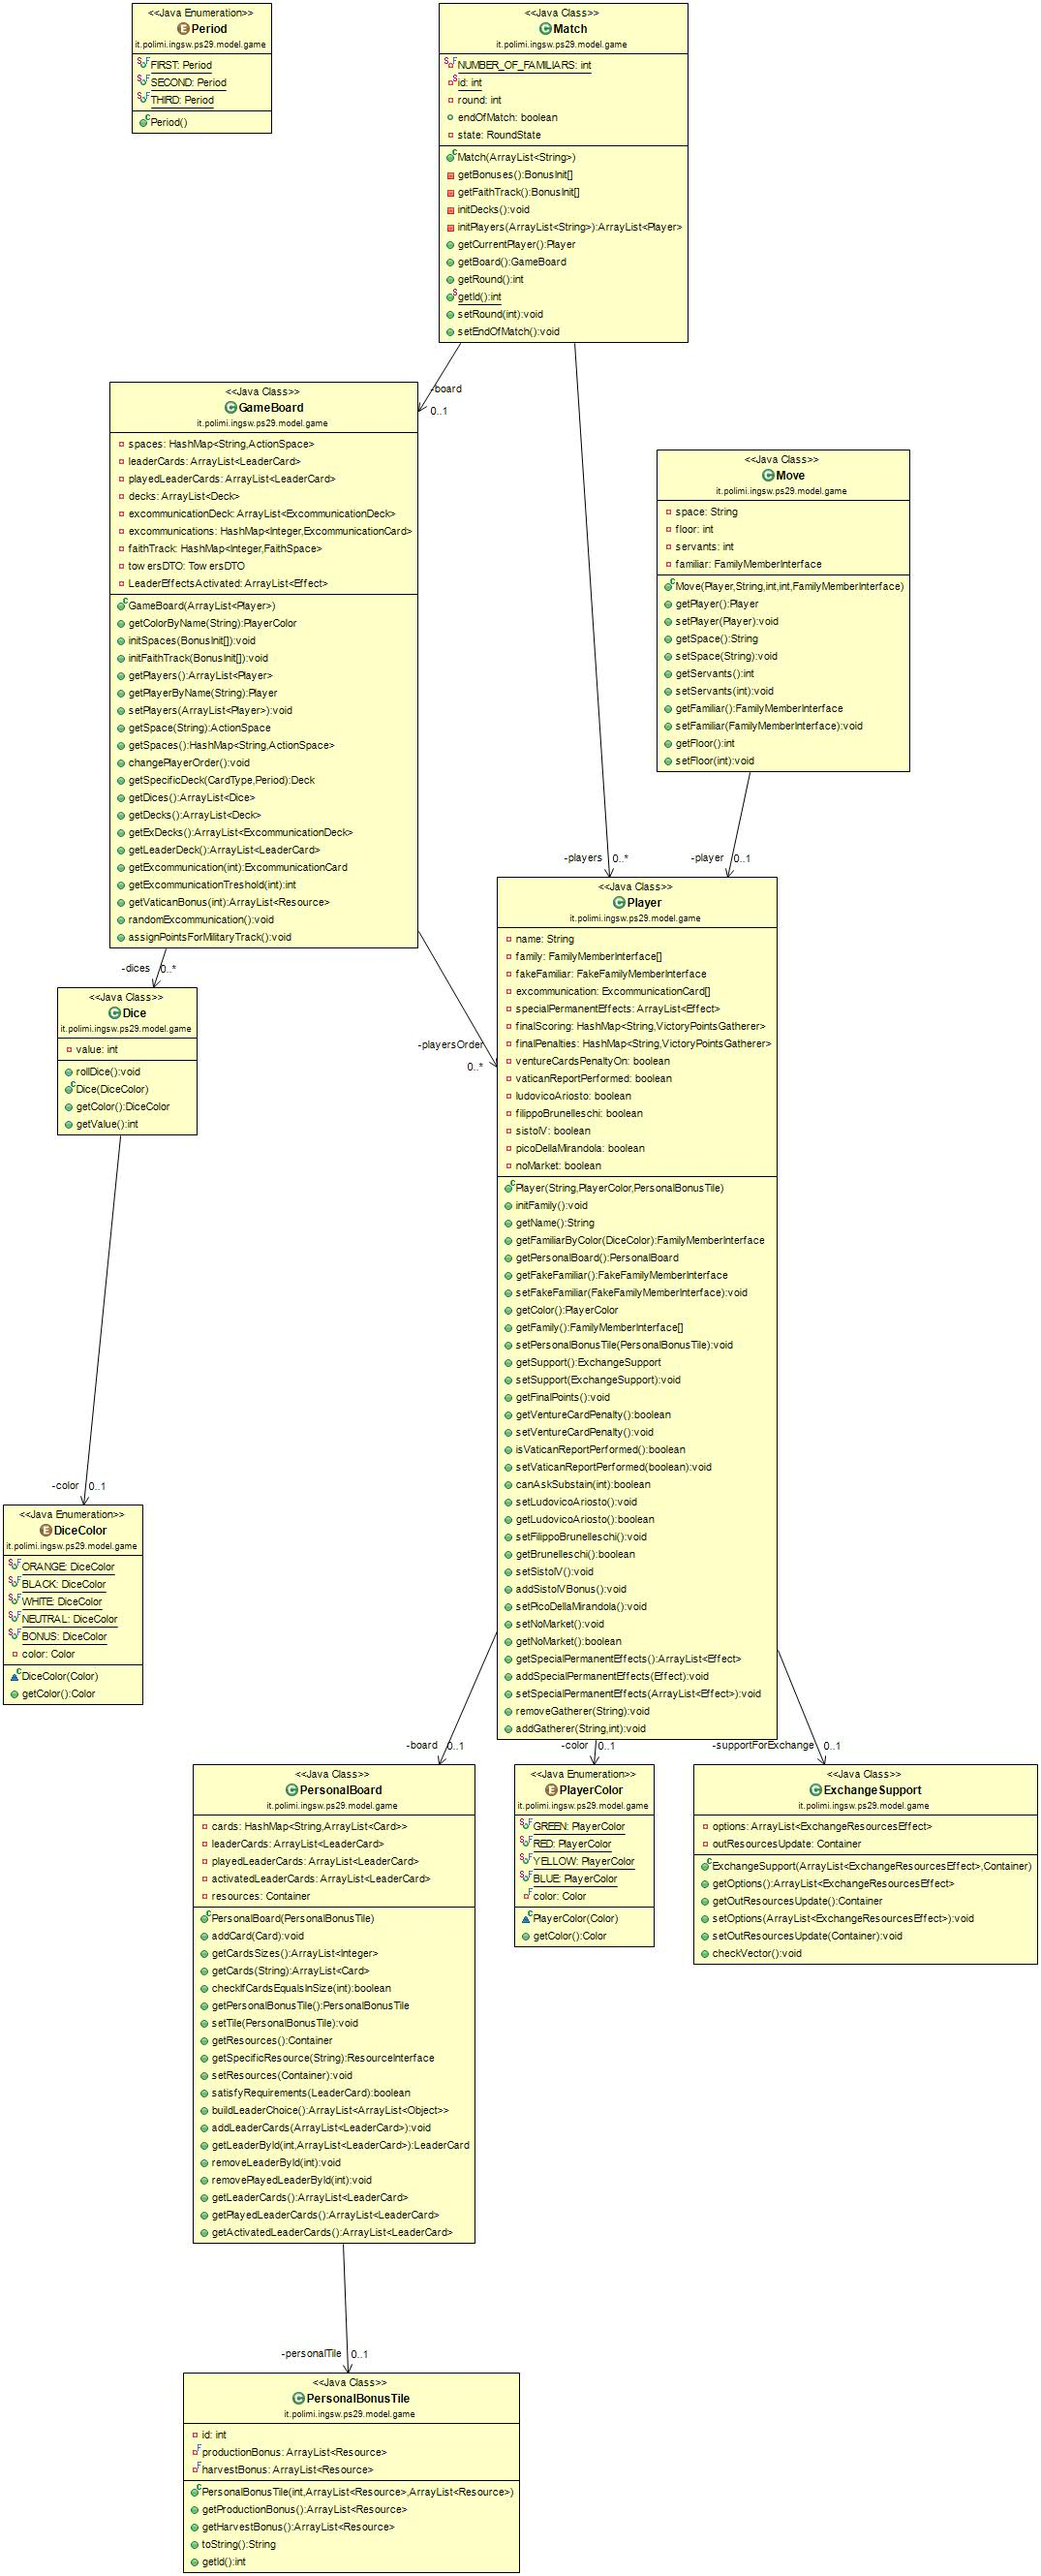
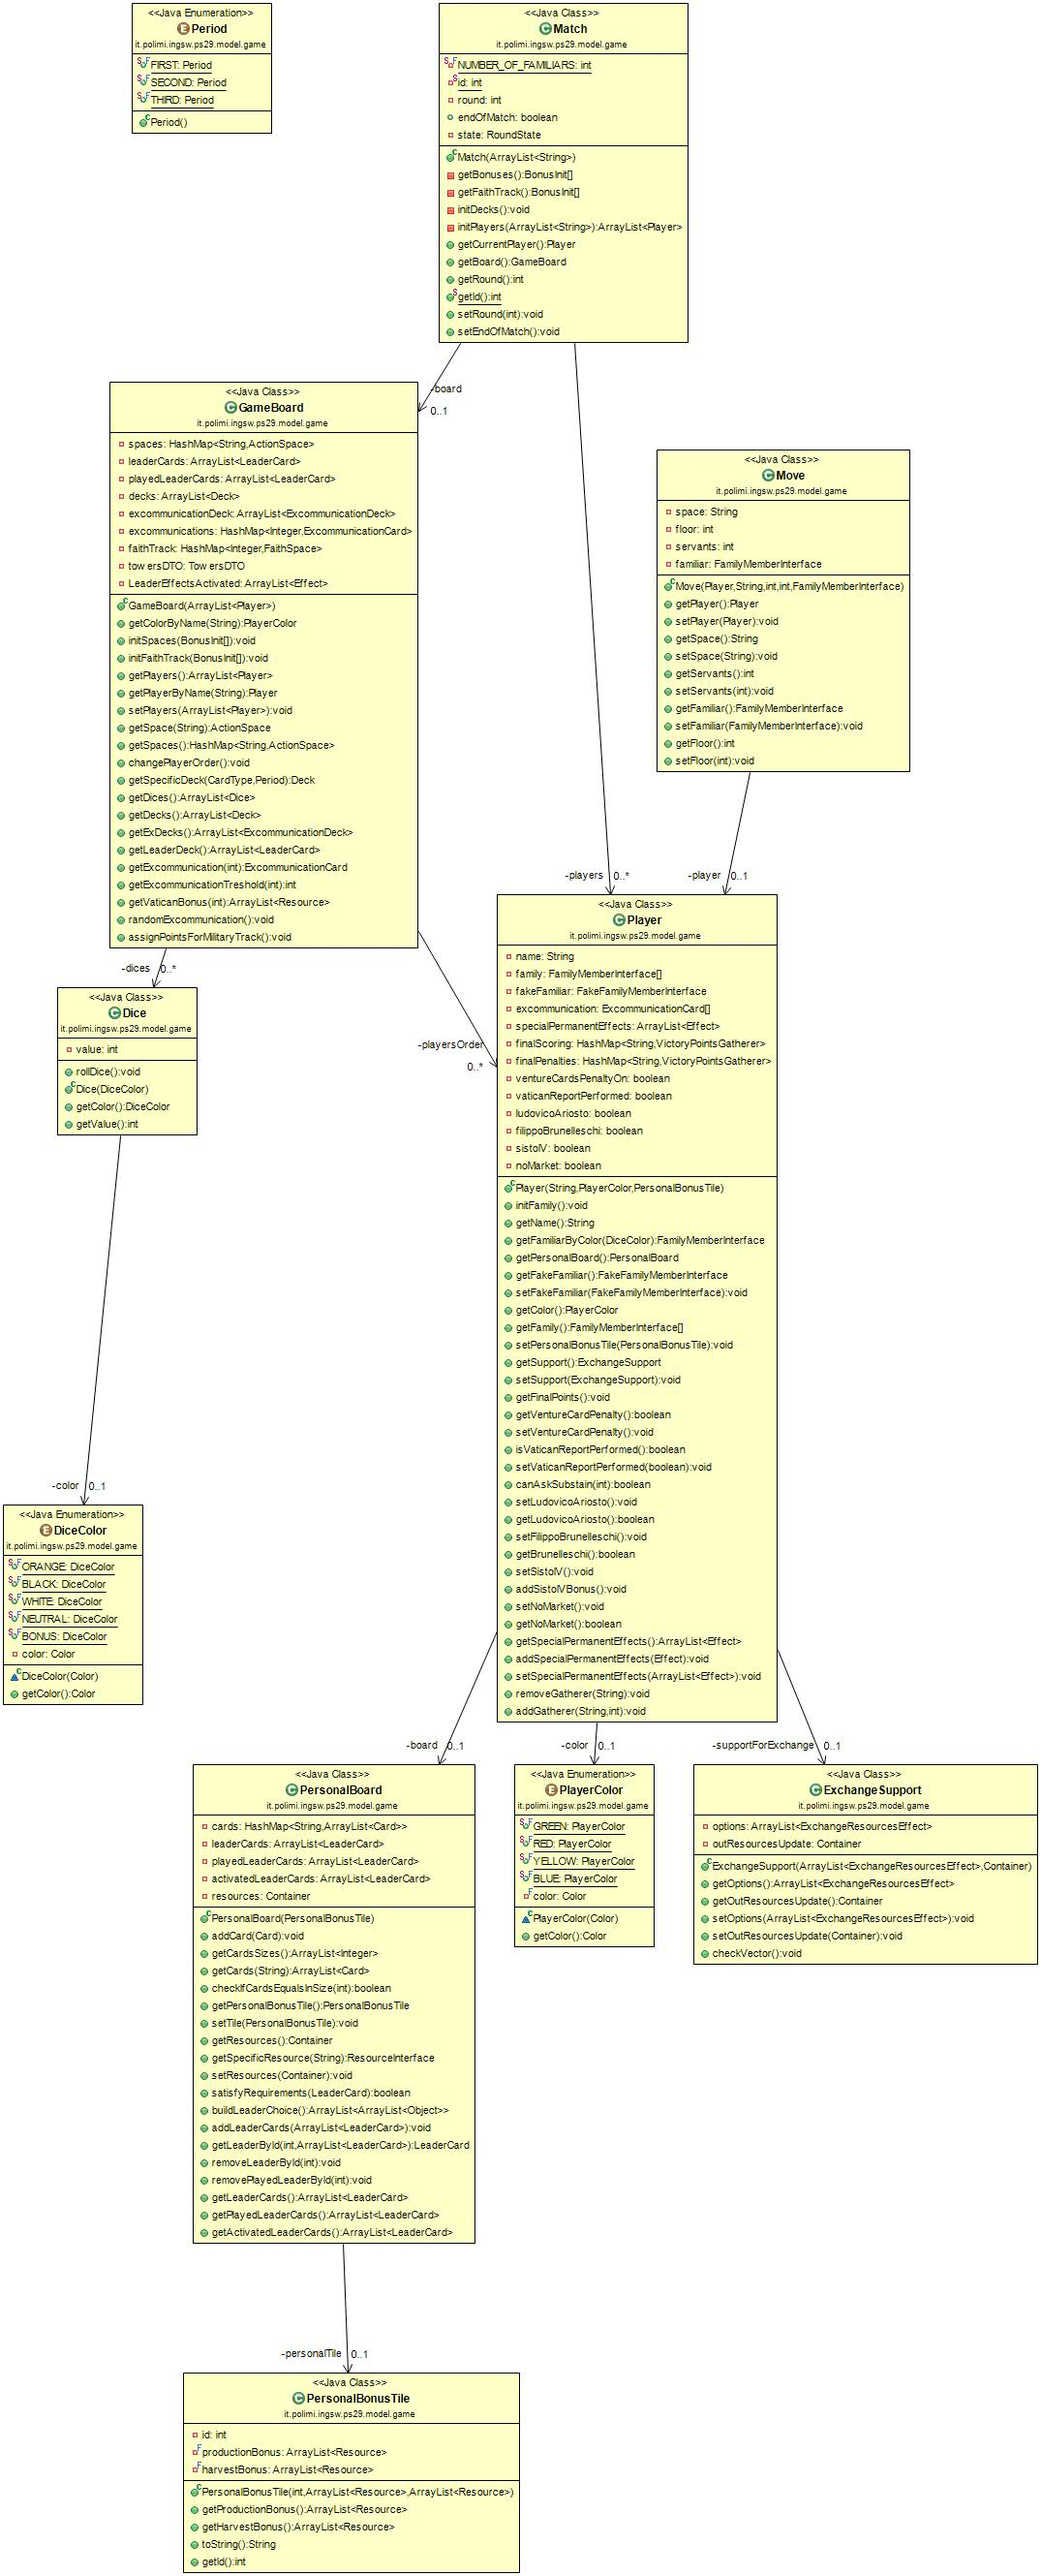
...

Changed region(s): [[0.4912, 0.3121, 0.7367, 0.4682], [0.4605, 0.6243, 0.7367, 0.6867]]

diff --git a/src/main/java/it/polimi/ingsw/ps29/model/game/Player.java b/src/main/java/it/polimi/ingsw/ps29/model/game/Player.java
@@ -55,7 +55,6 @@ public class Player {
 	private boolean ludovicoAriosto;
 	private boolean filippoBrunelleschi;
 	private boolean sistoIV;
-	private boolean picoDellaMirandola;
 	private boolean noMarket;
 
 	
@@ -72,7 +71,6 @@ public class Player {
 		ludovicoAriosto = false;
 		filippoBrunelleschi = false;
 		sistoIV = false;
-		picoDellaMirandola = false;
 		
 		finalScoring = new HashMap<String, VictoryPointsGatherer>(); 
 	    finalScoring.put("character", new CharacterCardVictoryPointsGatherer()); 
@@ -203,10 +201,6 @@ public class Player {
 		if (sistoIV == true){
 			this.getPersonalBoard().getResources().updateResource(new VictoryPoints(5));
 		}
-	}
-	
-	public void setPicoDellaMirandola(){
-		picoDellaMirandola = true;
 	}
 	
 	public void setNoMarket(){
